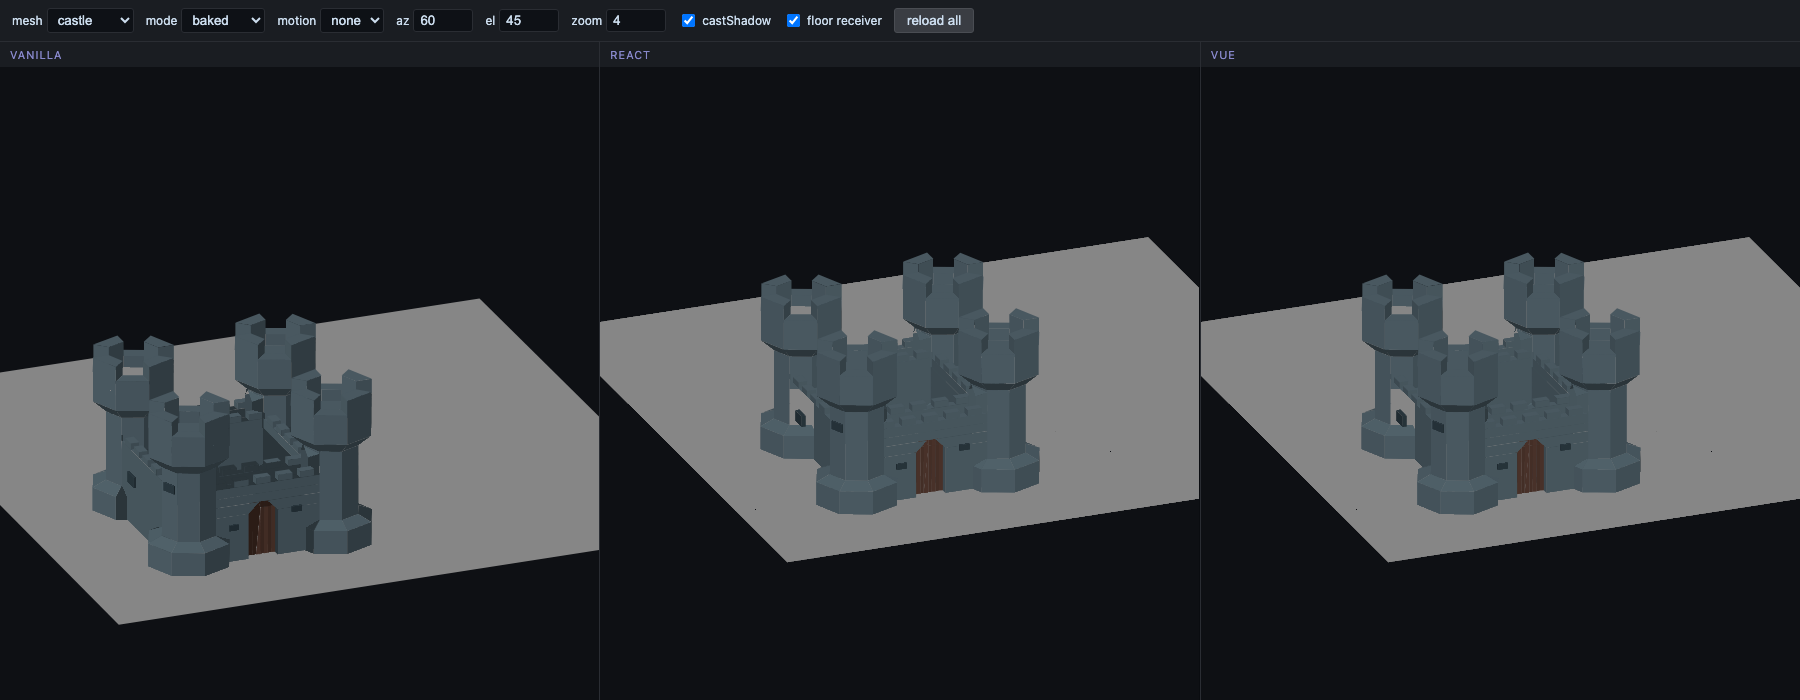
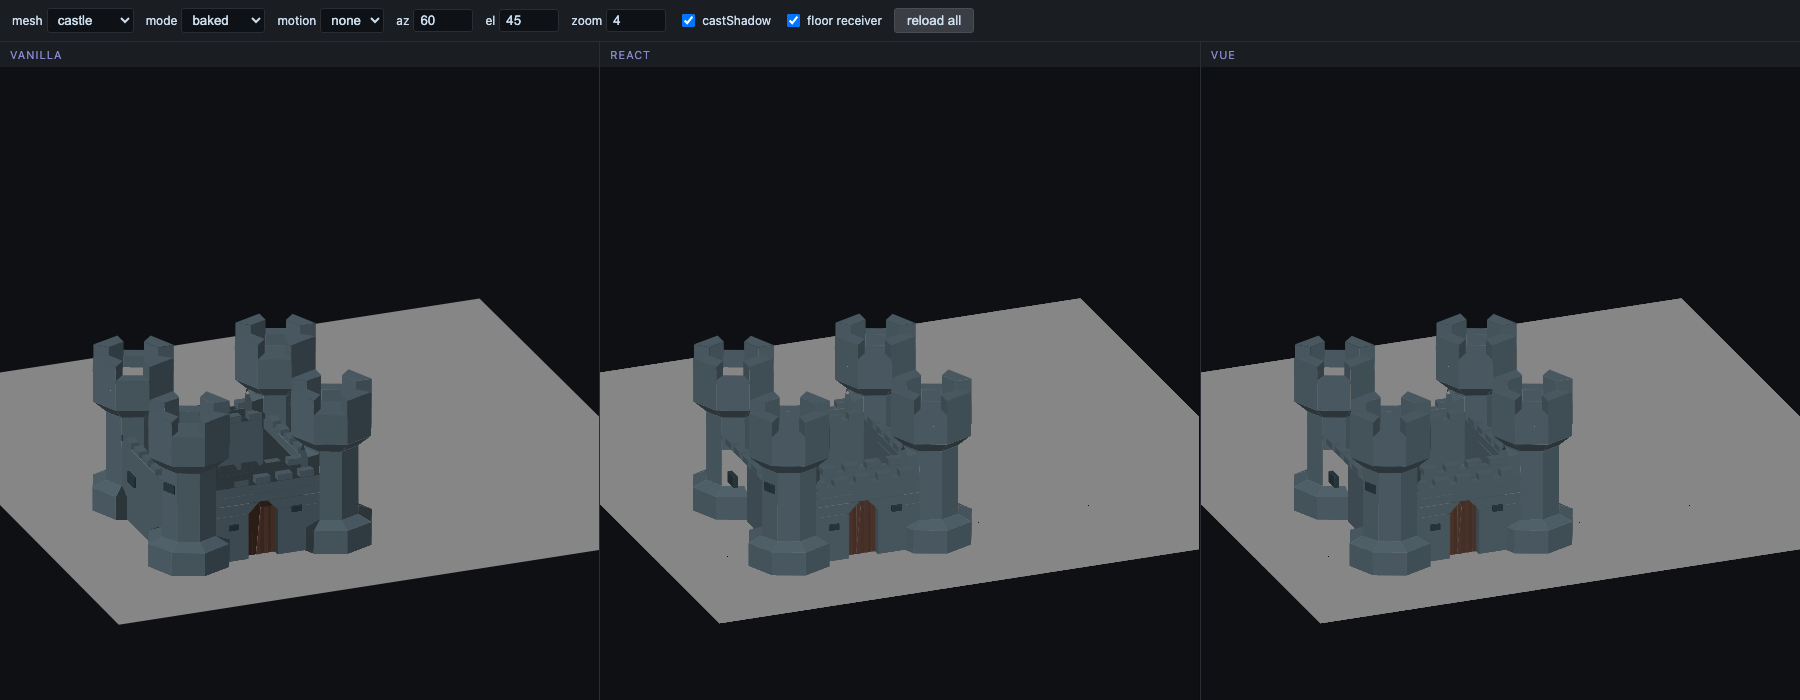
fix(react,vue): apply worldDirectionToCss to shadow light + sync bench centerPolygons across mesh+floor
Vanilla emitGround/emitReceiverShadows pre-swaps the directional light vector x↔y before projection because polygon vertices already live in the CSS-axis-swap frame after worldCssForMesh. React/Vue's new ground-shadow + receiver-shadow paths were passing the raw world-frame direction, so shadows landed in the wrong position relative to vanilla. Bench parity-trio now also includes the floor mesh in centerPolygons so React/Vue autoCenter matches vanilla's joint-bbox-of-all-meshes. worldDirectionToCss is now exported from core for downstream renderers.

Changed region(s): [[0.3111, 0.33, 1.0, 0.9]]

diff --git a/packages/react/src/scene/PolyMesh.tsx b/packages/react/src/scene/PolyMesh.tsx
@@ -45,6 +45,7 @@ import {
   prepareCasterPolyItems,
   prepareReceiverFacePlanes,
   projectCssVertexToGround,
+  worldDirectionToCss,
   type CameraCullRotation,
   type ReceiverCasterInput,
 } from "@layoutit/polycss-core";
@@ -740,8 +741,11 @@ export const PolyMesh = forwardRef<PolyMeshHandle, PolyMeshProps>(function PolyM
     if (sceneHasReceiver) return null;
     if (bakedShadowGroundCssZ === null) return null;
 
-    const lightDir = sceneDirectionalLight?.direction
+    // World→CSS axis swap so the light direction matches the CSS-frame
+    // vertex projection below (vertices are × BASE_TILE with v[1]→x, v[0]→y).
+    const userGroundLightDir = sceneDirectionalLight?.direction
       ?? ([0.4, -0.7, 0.59] as Vec3);
+    const lightDir = worldDirectionToCss(userGroundLightDir);
     const shadowDedupDrop = findOverlappingPolygonDuplicates(polygons, {
       normalTolerance: 0.1,
       distanceTolerance: 0.5,
@@ -871,7 +875,12 @@ export const PolyMesh = forwardRef<PolyMeshHandle, PolyMeshProps>(function PolyM
   const receiverShadowSvgs = useMemo<ReactNode>(() => {
     if (!receiveShadow) return null;
     if (!shadowCasters || shadowCasters.size === 0) return null;
-    const lightDir = sceneDirectionalLight?.direction ?? ([0.4, -0.7, 0.59] as Vec3);
+    // Caster vertices and receiver plane both live in the CSS axis-swap
+    // frame after worldCssForMesh; the light direction must be in the
+    // same frame for the shadow projection math to land correctly. (Matches
+    // vanilla emitGround/emitReceiverShadows pipelines.)
+    const userLightDir = sceneDirectionalLight?.direction ?? ([0.4, -0.7, 0.59] as Vec3);
+    const lightDir = worldDirectionToCss(userLightDir);
     const shadowLift = sceneShadow?.lift ?? 0.001;
     const planes = prepareReceiverFacePlanes(
       polygons,

diff --git a/packages/vue/src/scene/PolyMesh.ts b/packages/vue/src/scene/PolyMesh.ts
@@ -32,6 +32,7 @@ import {
   prepareCasterPolyItems,
   prepareReceiverFacePlanes,
   projectCssVertexToGround,
+  worldDirectionToCss,
   type CameraCullRotation,
   type ReceiverCasterInput,
 } from "@layoutit/polycss-core";
@@ -408,8 +409,11 @@ export const PolyMesh = defineComponent({
       if (groundCssZ === null) return null;
       const shadowOpts = ctx?.shadow;
 
-      const lightDir = ctx?.directionalLight?.direction
+      // World→CSS axis swap so the light direction matches the CSS-frame
+      // vertex projection below (vertices are × BASE_TILE with v[1]→x, v[0]→y).
+      const userGroundLightDir = ctx?.directionalLight?.direction
         ?? ([0.4, -0.7, 0.59] as Vec3);
+      const lightDir = worldDirectionToCss(userGroundLightDir);
       const dedupDrop = findOverlappingPolygonDuplicates(polygons.value, {
         normalTolerance: 0.1,
         distanceTolerance: 0.5,
@@ -535,7 +539,11 @@ export const PolyMesh = defineComponent({
       void cameraTick.value;
       const entries = registry.getEntries();
       if (entries.length === 0) return [];
-      const lightDir = ctx?.directionalLight?.direction ?? ([0.4, -0.7, 0.59] as Vec3);
+      // Caster vertices and receiver plane both live in the CSS axis-swap
+      // frame after worldCssForMesh; the light direction must be in the
+      // same frame for the shadow projection math to land correctly.
+      const userLightDir = ctx?.directionalLight?.direction ?? ([0.4, -0.7, 0.59] as Vec3);
+      const lightDir = worldDirectionToCss(userLightDir);
       const shadowLift = ctx?.shadow?.lift ?? 0.001;
       const planes = prepareReceiverFacePlanes(
         polygons.value,

diff --git a/bench/entries/vue.ts b/bench/entries/vue.ts
@@ -83,6 +83,13 @@ const PerfApp = defineComponent({
       if (raf !== null) cancelAnimationFrame(raf);
     });
 
+    // Include the floor polygons in centerPolygons when the floor is on, so
+    // Vue autoCenter mirrors vanilla's joint-bbox-of-all-meshes calc.
+    const centerPolys = computed(() => {
+      if (!props.parseResult) return undefined;
+      if (!props.floor) return props.parseResult.polygons;
+      return [...props.parseResult.polygons, ...buildFloorPolygons()];
+    });
     return () => h(
       PolyCamera,
       { rotX: props.preset.rotX, rotY: rotY.value, zoom: props.preset.zoom },
@@ -95,7 +102,7 @@ const PerfApp = defineComponent({
             textureLighting: props.mode,
             strategies: props.strategies,
             autoCenter: true,
-            centerPolygons: props.parseResult?.polygons,
+            centerPolygons: centerPolys.value,
           },
           {
             default: () => [

diff --git a/bench/entries/react.tsx b/bench/entries/react.tsx
@@ -77,6 +77,13 @@ function PerfApp({
     [],
   );
 
+  // Include the floor polygons in centerPolygons when the floor is on, so
+  // React/Vue autoCenter mirrors vanilla's joint-bbox-of-all-meshes calc.
+  const centerPolys = useMemo(() => {
+    if (!parseResult) return undefined;
+    if (!floor) return parseResult.polygons;
+    return [...parseResult.polygons, ...buildFloorPolygons()];
+  }, [parseResult, floor]);
   return (
     <PolyCamera rotX={preset.rotX} rotY={rotY} zoom={preset.zoom}>
       <PolyScene
@@ -85,7 +92,7 @@ function PerfApp({
         textureLighting={mode}
         strategies={strategies}
         autoCenter
-        centerPolygons={parseResult?.polygons}
+        centerPolygons={centerPolys}
       >
         <PolyOrbitControls drag wheel animate={false} />
         {parseResult

diff --git a/packages/core/src/shadow/receiverFaceGroups.ts b/packages/core/src/shadow/receiverFaceGroups.ts
@@ -37,6 +37,13 @@ export function worldPositionToCss(p: Vec3): Vec3 {
   return [p[1] * BASE_TILE, p[0] * BASE_TILE, p[2] * BASE_TILE];
 }
 
+/** World→CSS axis swap for directions (no scale; directions stay unit). The
+ *  polygon basis stores normals in the swapped CSS frame, so light vectors
+ *  must match before any dot product. */
+export function worldDirectionToCss(d: Vec3): Vec3 {
+  return [d[1], d[0], d[2]];
+}
+
 /** Normalize a mesh `scale` value into a Vec3 (undefined → [1,1,1], number →
  *  uniform, Vec3 → as-is with `?? 1` per axis). */
 export function meshScaleVec3(

diff --git a/packages/core/src/index.ts b/packages/core/src/index.ts
@@ -166,6 +166,7 @@ export {
   RECEIVER_OFFSET_TOL,
   RECEIVER_OUTLINE_EXPAND,
   worldCssForMesh,
+  worldDirectionToCss,
   worldPositionToCss,
 } from "./shadow/receiverFaceGroups";
 export type { ReceiverPlaneGroup } from "./shadow/receiverFaceGroups";
